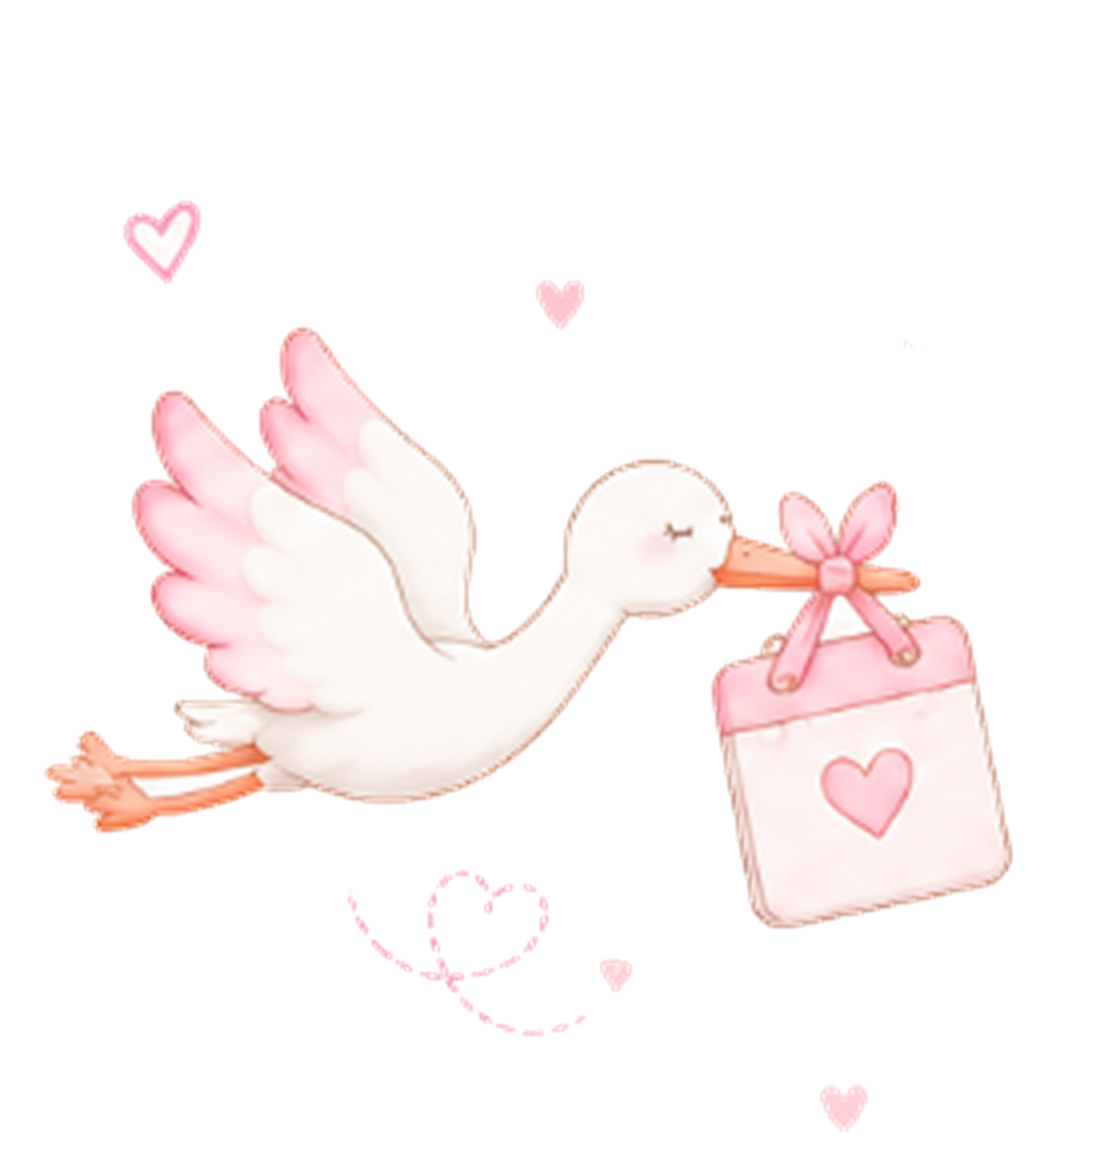
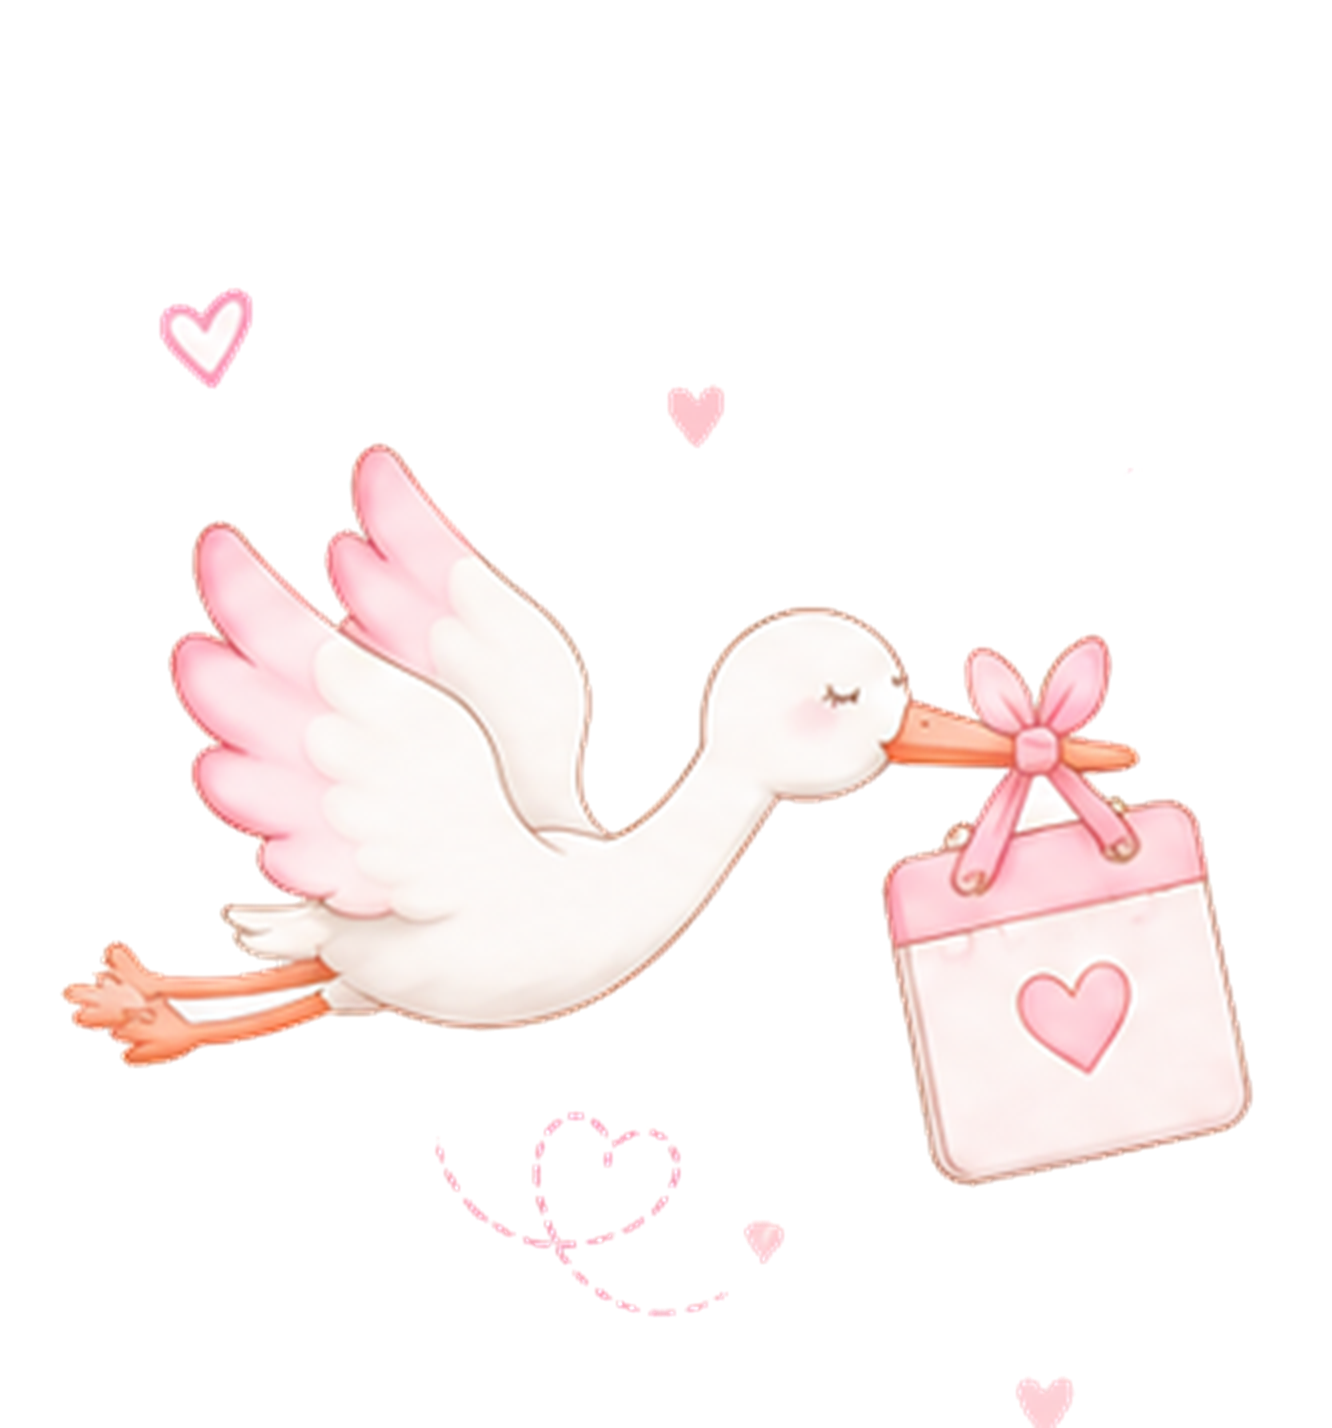
Se cambian cigüeñas por versiones más nítidas, nuevas coordenadas y mensaje de los papás

diff --git a/index.html b/index.html
@@ -18,7 +18,7 @@
   <!-- Marca que hay JS antes de pintar, para ocultar lo que se va a animar -->
   <script>document.documentElement.classList.add('js', 'has-envelope');</script>
   <!-- ?v=: cambiarlo en cada subida para que los celulares no usen el CSS/JS viejo guardado -->
-  <link rel="stylesheet" href="styles.css?v=9">
+  <link rel="stylesheet" href="styles.css?v=10">
 </head>
 <body>
 
@@ -192,13 +192,13 @@
         <span class="deco-dot" style="top: 90%; right: 42%"></span>
       </div>
       <div class="container">
-        <img class="scene" src="assets/illustrations/ciguena-zapatitos.png?v=7" alt="Cigüeña con unos zapatitos de bebé rosados" width="1044" height="1080" loading="lazy" decoding="async" data-animate="scale">
+        <img class="scene" src="assets/illustrations/ciguena-zapatitos.png?v=10" alt="Cigüeña con unos zapatitos de bebé rosados" width="1280" height="1200" loading="lazy" decoding="async" data-animate="scale">
         <p class="eyebrow" data-animate="fade-up">Con todo nuestro amor</p>
         <h2 class="section__title section__title--names" id="foto-titulo" data-animate="fade-up">Jhon y Johana</h2>
         <div class="divider" aria-hidden="true" data-animate="fade-up">
           <svg><use href="#corazon"/></svg>
         </div>
-        <p class="section__text" data-animate="fade-up">Muy pronto se nos suma una princesita. Nos encantaría que nos acompañes en este momento tan lindo de nuestra vida.</p>
+        <p class="section__text" data-animate="fade-up">Muy pronto nos crece la familia. Nos encantaría que nos acompañes en este momento tan lindo de nuestra vida.</p>
       </div>
     </section>
 
@@ -221,7 +221,7 @@
         <span class="deco-dot deco-dot--pink" style="top: 90%; left: 44%"></span>
       </div>
       <div class="container">
-        <img class="scene" src="assets/illustrations/ciguena-calendario.png?v=7" alt="Cigüeña volando con un calendario" width="1120" height="1156" loading="lazy" decoding="async" data-animate="fade">
+        <img class="scene" src="assets/illustrations/ciguena-calendario.png?v=10" alt="Cigüeña volando con un calendario" width="1332" height="1428" loading="lazy" decoding="async" data-animate="fade">
         <p class="eyebrow countdown__title">Faltan</p>
         <h2 class="visually-hidden" id="cuenta-titulo">Cuenta regresiva</h2>
         <div class="countdown" id="countdown" role="timer" aria-live="off">
@@ -307,7 +307,7 @@
       </div>
       <img class="deco-butterfly deco--bl" src="assets/illustrations/mariposa.png" alt="" aria-hidden="true">
       <div class="container">
-        <img class="scene" src="assets/illustrations/ciguena-ubicacion.png?v=7" alt="Cigüeña con un pin de ubicación" width="1116" height="1048" loading="lazy" decoding="async" data-animate="fade">
+        <img class="scene" src="assets/illustrations/ciguena-ubicacion.png?v=10" alt="Cigüeña con un pin de ubicación" width="1288" height="1256" loading="lazy" decoding="async" data-animate="fade">
         <p class="eyebrow" data-animate="fade">¿Cómo llegar?</p>
         <h2 class="section__title" id="mapa-titulo" data-animate="fade">Finca Guadalupe, San Carlos, Antioquia</h2>
         <div class="map" data-animate="fade">
@@ -391,6 +391,6 @@
     <p>Gracias por ser parte de este momento</p>
   </footer>
 
-  <script src="script.js?v=9" defer></script>
+  <script src="script.js?v=10" defer></script>
 </body>
 </html>

diff --git a/script.js b/script.js
@@ -8,7 +8,7 @@ const CONFIG = {
   eventTitle: 'Baby Shower de Nihan',
 
   // Punto exacto (latitud, longitud) para el mapa y "Abrir en Google Maps"
-  mapQuery: '6.165053,-75.035037',
+  mapQuery: '6.165645,-75.032913',
   // Dirección legible que se pone como lugar en "Agregar al calendario"
   placeName: 'Finca Guadalupe, Vereda Dos Quebradas, San Carlos, Antioquia',
 
